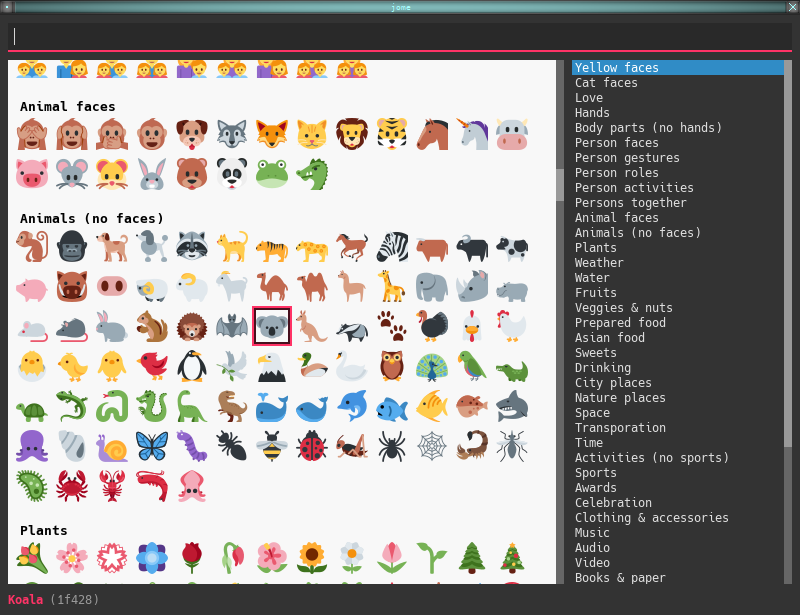
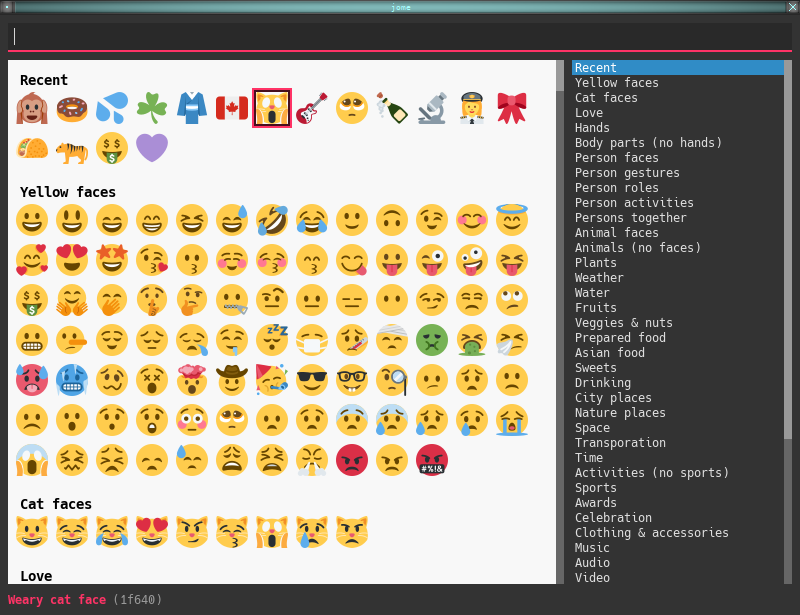
Add recent emojis category
`EmojiDb` now has one more category, "Recent", which is always the first
and contains recently accepted emojis.

To add an emoji to this category, call addRecentEmoji(). This function
places the added emoji at the beginning of the category's emojis and
removes another item being this emoji, if any.

The emojis in the "Recent" category are kept synchronized with user
settings. On Unix, this is in "$HOME/.config/jome/jome.conf". This is an
INI file managed by a `QSettings` instance; it should not be edited
manually. You can remove it if recent emojis are corrupted or something.

In server mode, the "Recent" category is updated immediately when
accepting an emoji so that the category is up to date when showing the
window again.

There's a hard limit of 30 recent emojis as of this patch. This could
become configurable eventually. As a reference point, the iPhone 6S
emoji keyboard (running iOS 12) contains 30 frequently used emojis. The
Messenger app on the same platform also contains 30 frequently used
emojis.

diff --git a/jome/emoji-db.cpp b/jome/emoji-db.cpp
@@ -104,6 +104,12 @@ EmojiCat::EmojiCat(const std::string& id, const std::string& name,
 {
 }
 
+EmojiCat::EmojiCat(const std::string& id, const std::string& name) :
+    _id {id},
+    _name {name}
+{
+}
+
 const std::string& EmojiCat::lcName() const
 {
     if (_lcName.empty()) {
@@ -119,6 +125,7 @@ EmojiDb::EmojiDb(const std::string& dir) :
 {
     this->_createEmojis(dir);
     this->_createCats(dir);
+    this->_setRecentEmojisCatFromSettings();
     this->_createEmojiPngLocations(dir);
 }
 
@@ -170,6 +177,10 @@ void EmojiDb::_createEmojis(const std::string& dir)
 
 void EmojiDb::_createCats(const std::string& dir)
 {
+    // first, special category: recent emojis
+    _cats.push_back(std::make_unique<EmojiCat>("recent", "Recent"));
+    _recentEmojisCat = _cats.back().get();
+
     const auto catsJson = this->_loadJson(dir, "cats.json");
 
     for (const auto& catJson : catsJson.ArrayRange()) {
@@ -180,12 +191,13 @@ void EmojiDb::_createCats(const std::string& dir)
 
         for (const auto& emojiJson : emojisJson.ArrayRange()) {
             const auto emojiStr = emojiJson.ToString();
+
             emojis.push_back(_emojis[emojiStr].get());
         }
 
-        auto cat = std::make_unique<const EmojiCat>(idJson.ToString(),
-                                                    nameJson.ToString(),
-                                                    std::move(emojis));
+        auto cat = std::make_unique<EmojiCat>(idJson.ToString(),
+                                              nameJson.ToString(),
+                                              std::move(emojis));
 
         _cats.push_back(std::move(cat));
     }
@@ -270,6 +282,76 @@ void EmojiDb::findEmojis(const std::string& cat, const std::string& needlesStr,
             _tmpFoundEmojis.insert(emoji);
         }
     }
+}
+
+void EmojiDb::_updateSettings()
+{
+    QList<QVariant> emojiList;
+
+    for (const auto emoji : _recentEmojisCat->emojis()) {
+        const auto emojiStr = QString::fromStdString(emoji->str());
+
+        emojiList.append(emojiStr);
+    }
+
+    _settings.setValue("recent-emojis", emojiList);
+}
+
+void EmojiDb::_setRecentEmojisCatFromSettings()
+{
+    assert(_recentEmojisCat);
+    _recentEmojisCat->emojis().clear();
+
+    const auto recentEmojisVar = _settings.value("recent-emojis");
+
+    if (!recentEmojisVar.canConvert<QList<QVariant>>()) {
+        return;
+    }
+
+    const auto recentEmojisList = recentEmojisVar.toList();
+
+    for (const auto& emojiStrVar : recentEmojisList) {
+        if (!emojiStrVar.canConvert<QString>()) {
+            continue;
+        }
+
+        const auto emojiStr = emojiStrVar.toString();
+        const auto it = _emojis.find(emojiStr.toUtf8().constData());
+
+        if (it == std::end(_emojis)) {
+            continue;
+        }
+
+        _recentEmojisCat->emojis().push_back(it->second.get());
+    }
+}
+
+void EmojiDb::addRecentEmoji(const Emoji& emoji)
+{
+    assert(_recentEmojisCat);
+
+    auto& emojis = _recentEmojisCat->emojis();
+
+    while (true) {
+        auto existingIt = std::find(std::begin(emojis), std::end(emojis),
+                                    &emoji);
+
+        if (existingIt == std::end(emojis)) {
+            break;
+        }
+
+        emojis.erase(existingIt);
+    }
+
+    emojis.insert(std::begin(emojis), &emoji);
+
+    constexpr auto maxRecentEmojis = 30U;
+
+    if (emojis.size() > maxRecentEmojis) {
+        emojis.resize(maxRecentEmojis);
+    }
+
+    this->_updateSettings();
 }
 
 } // namespace jome

diff --git a/jome/emoji-db.hpp b/jome/emoji-db.hpp
@@ -13,6 +13,7 @@
 #include <memory>
 #include <unordered_map>
 #include <unordered_set>
+#include <QSettings>
 
 #include "simple-json.hpp"
 
@@ -48,7 +49,6 @@ public:
         return _str;
     }
 
-
     const std::string& name() const noexcept
     {
         return _name;
@@ -75,6 +75,7 @@ private:
 class EmojiCat
 {
 public:
+    explicit EmojiCat(const std::string& id, const std::string& name);
     explicit EmojiCat(const std::string& id, const std::string& name,
                       std::vector<const Emoji *>&& emojis);
     const std::string& lcName() const;
@@ -89,6 +90,11 @@ public:
         return _name;
     }
 
+    std::vector<const Emoji *>& emojis() noexcept
+    {
+        return _emojis;
+    }
+
     const std::vector<const Emoji *>& emojis() const noexcept
     {
         return _emojis;
@@ -98,7 +104,7 @@ private:
     const std::string _id;
     const std::string _name;
     mutable std::string _lcName;
-    const std::vector<const Emoji *> _emojis;
+    std::vector<const Emoji *> _emojis;
 };
 
 struct EmojisPngLocation
@@ -113,13 +119,14 @@ public:
     explicit EmojiDb(const std::string& dir);
     void findEmojis(const std::string& cat, const std::string& needles,
                     std::vector<const Emoji *>& results) const;
+    void addRecentEmoji(const Emoji& emoji);
 
     const std::string& emojisPngPath() const noexcept
     {
         return _emojisPngPath;
     }
 
-    const std::vector<std::unique_ptr<const EmojiCat>>& cats() const noexcept
+    const std::vector<std::unique_ptr<EmojiCat>>& cats() const noexcept
     {
         return _cats;
     }
@@ -154,16 +161,22 @@ private:
     void _createEmojis(const std::string& dir);
     void _createCats(const std::string& dir);
     void _createEmojiPngLocations(const std::string& dir);
+    void _updateSettings();
+    void _setRecentEmojisCatFromSettings();
 
 private:
     const std::string _emojisPngPath;
-    std::vector<std::unique_ptr<const EmojiCat>> _cats;
+    std::vector<std::unique_ptr<EmojiCat>> _cats;
     std::unordered_map<std::string, std::unique_ptr<const Emoji>> _emojis;
     std::unordered_map<std::string, std::unordered_set<const Emoji *>> _keywordEmojis;
     std::unordered_set<std::string> _keywords;
     std::unordered_map<const Emoji *, EmojisPngLocation> _emojiPngLocations;
     mutable std::vector<std::string> _tmpNeedles;
     mutable std::unordered_set<const Emoji *> _tmpFoundEmojis;
+    EmojiCat *_recentEmojisCat = nullptr;
+
+    // TODO: decouple this part from Qt
+    QSettings _settings;
 };
 
 } // namespace jome

diff --git a/jome/jome.cpp b/jome/jome.cpp
@@ -153,11 +153,12 @@ int main(int argc, char **argv)
     std::unique_ptr<jome::QJomeServer> server;
 
     app.setApplicationDisplayName("jome");
+    app.setOrganizationName("jome");
     app.setApplicationName("jome");
     app.setApplicationVersion(JOME_VERSION);
 
     const auto params = parseArgs(app, argc, argv);
-    const jome::EmojiDb db {JOME_DATA_DIR};
+    jome::EmojiDb db {JOME_DATA_DIR};
     jome::QJomeWindow win {db};
 
     QObject::connect(&win, &jome::QJomeWindow::canceled,
@@ -175,8 +176,7 @@ int main(int argc, char **argv)
         }
     });
     QObject::connect(&win, &jome::QJomeWindow::emojiChosen,
-                     [&params, &app, &win, &server](const auto& emoji,
-                                                    const auto skinTone) {
+                     [&](const auto& emoji, const auto skinTone) {
         const auto emojiStr = formatEmoji(emoji, skinTone, params.fmt,
                                           params.cpPrefix,
                                           params.noNewline || !params.cmd.empty());
@@ -209,6 +209,18 @@ int main(int argc, char **argv)
 
         // always hide when accepting
         win.hide();
+
+        // add emoji as recent emoji
+        db.addRecentEmoji(emoji);
+
+        if (server) {
+            /*
+             * Not calling directly because we're potentially within an
+             * event handler which is currently using an emoji graphics
+             * item, so we cannot delete it.
+             */
+            QTimer::singleShot(0, &win, &jome::QJomeWindow::emojiDbChanged);
+        }
     });
 
     if (!params.serverName.empty()) {

diff --git a/jome/q-jome-window.hpp b/jome/q-jome-window.hpp
@@ -67,6 +67,9 @@ signals:
     void emojiChosen(const Emoji& emoji, Emoji::SkinTone skinTone);
     void canceled();
 
+public slots:
+    void emojiDbChanged();
+
 private:
     void closeEvent(QCloseEvent *event) override;
     void showEvent(QShowEvent *event) override;

diff --git a/jome/q-jome-window.cpp b/jome/q-jome-window.cpp
@@ -448,4 +448,10 @@ void QJomeWindow::_updateInfoLabel(const Emoji * const emoji)
     _wInfoLabel->setText(text);
 }
 
+void QJomeWindow::emojiDbChanged()
+{
+    _wEmojis->rebuild();
+    _wEmojis->showAllEmojis();
+}
+
 } // namespace jome
